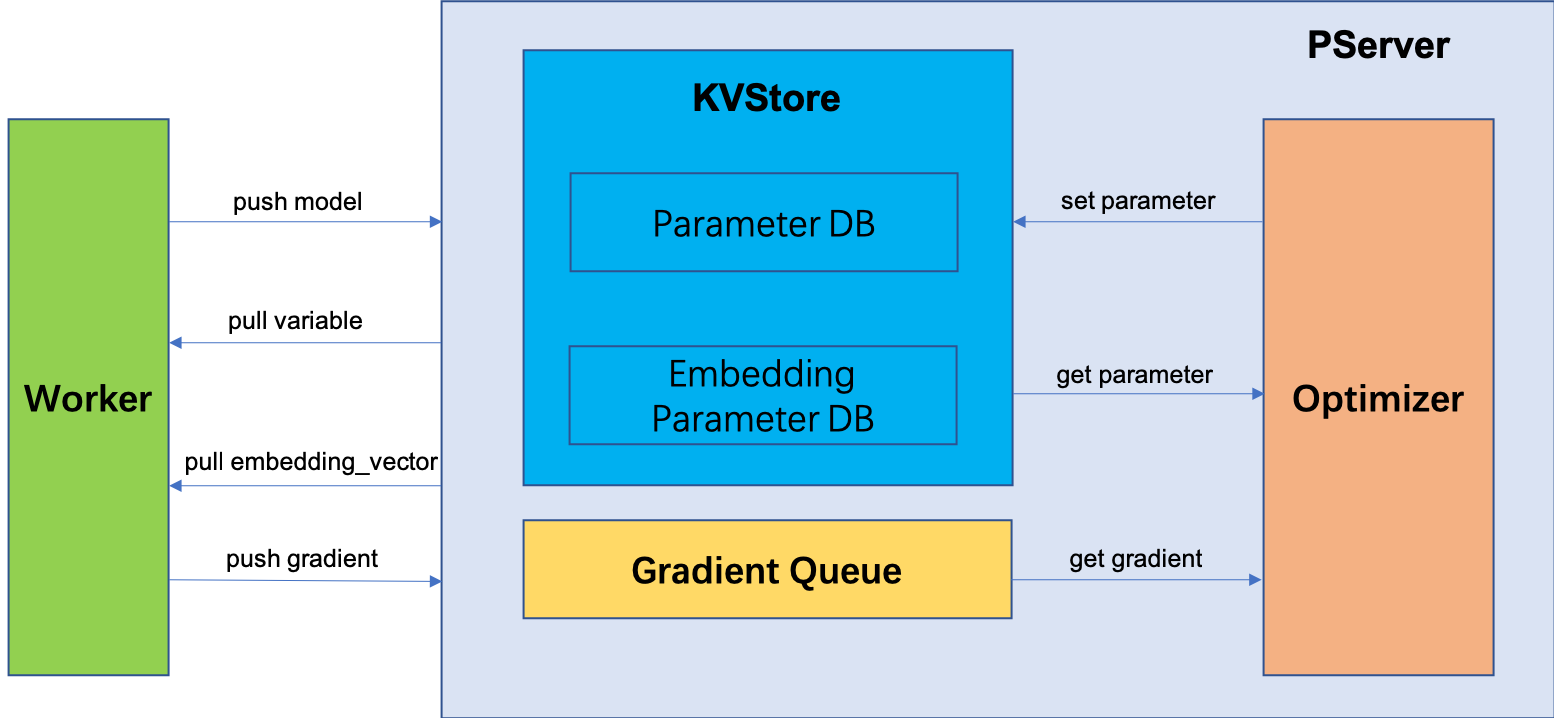
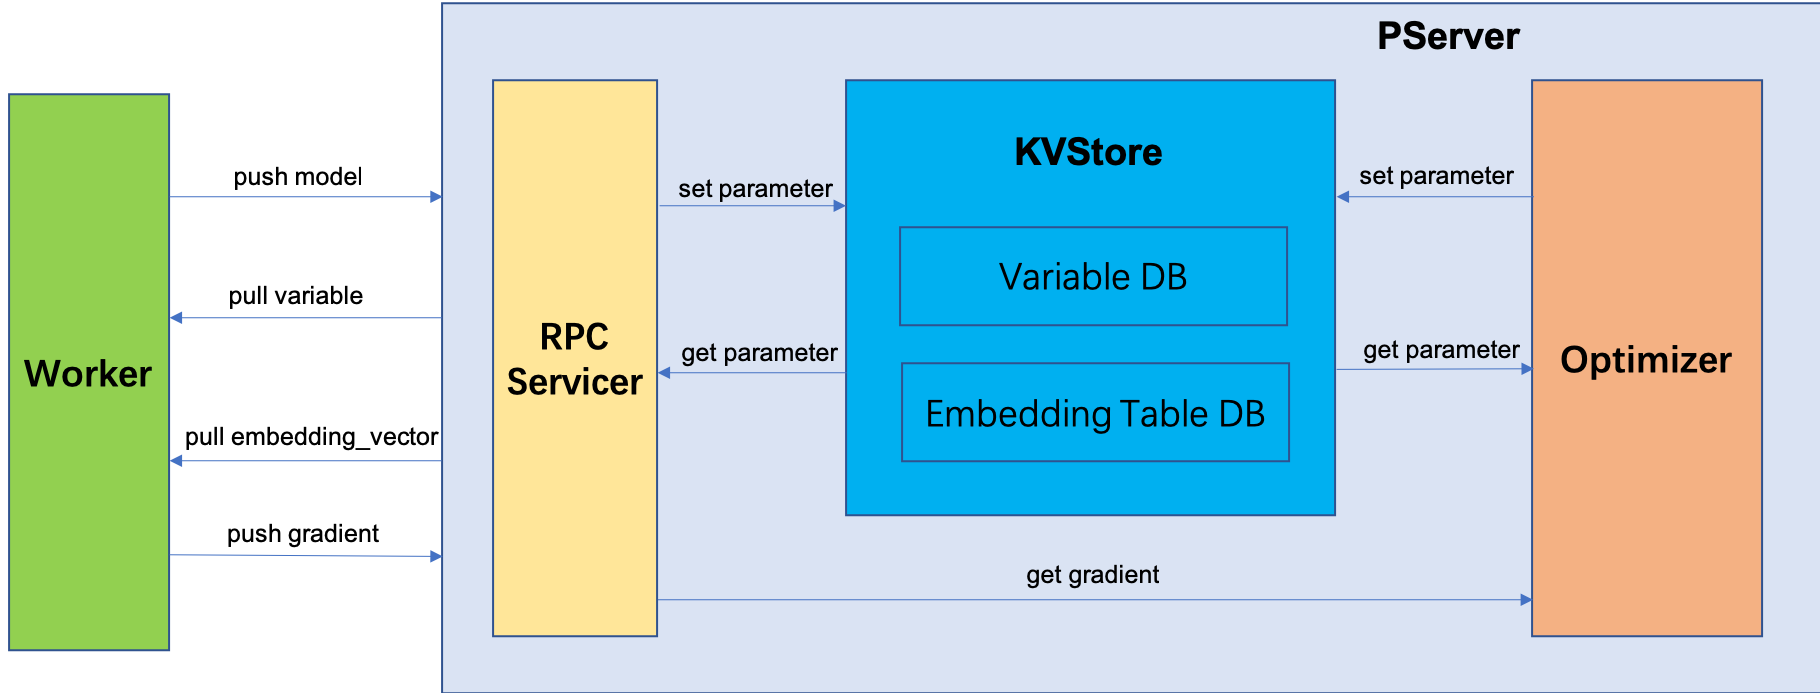
merge polish part

diff --git a/docs/designs/ps_design.md b/docs/designs/ps_design.md
@@ -20,7 +20,194 @@ In the following [PS](#ps) section, we will explain the distributed PS. In [PS F
 
 ## PS
 
-##PS Fault Tolerance
+To update a single parameter, optimizer needs to get the parameter, apply the gradient to the parameter, and then write the parameter back. It involves one time read and one time write. There will be huge accesses to parameters in a training job. Since model parameters are store at PS, it's better to make the optimization at the same place to reduce the cost of accessing parameters.
+
+Thus, we propose that PS has three basic components:
+
+| component| functionality |hardware |
+| :----  |:----  |:----  |
+|KVStore  | provides distributed storage of model parameters|memory|
+|Optimizer | applies gradients from workers to model parameters|CPU |
+|RPC servicer |servers workers to pull parameters and push gradients |network bandwidth |
+
+Each component will occupy a kind of hardware resource. The hardware resources of PS nodes, including memory/CPU/network bandwidth, are fully used.
+
+Following is the architecture diagram of PS:
+
+![pserver](../images/pserver.png)
+
+There is a KVStore instance in each PS node. The KVStore instances of all the PS nodes combine together and become a distributed KVStore, which could be expanded easily to support the large size model.
+
+Correspondingly, there are an optimizer instance and a RPC servicer instance in each PS node. The optimizer gets gradients for RPC servicer, parameters from KVStore, and then applies the gradients to parameters. At last, it updates parameters back to the KVStore.
+
+### KVStore
+
+The typical big parameter of a model could be an embedding table. There could be billions of feature ID in a recommendation system. The KVStore needs to support both embedding table parameter and non-embedding parameter.
+
+Since `tf.keras.optimizer` only accept `tf.Variable` as the parameter. To avoid uncessary memory copy, we save non-embedding parameter as a `tf.Variable` in variable DB directly.
+
+For the embedding table parameter, we introduce a customized data structure because we could not initialize the table before training. There are mainly two reasons:
+
+- Feature ID is usually calculated by the hash function. The training dataset is too large to get the range of the ID before training.
+- Sometimes, there comes a new feature ID in online training.
+
+
+Following is the definition of KVStore:
+
+```python
+class KVStore(object):
+    def __init__(self):
+        self.variable_db = {}
+        self.embedding_table_db = {}
+
+    def get_parameter(self, name):
+        pass
+
+    def set_parameter(self, name, value):
+        pass
+
+    def get_embedding_vector(self, name, indices):
+        pass
+
+    def set_embedding_vector(self, name, indices, value):
+        pass
+```
+
+Following is the definition of EmbeddingTable:
+
+```python
+class EmbeddingTable(object):
+    def __init__(self, name, dim, initializer):
+        self.name = name
+        self.dim = dim
+        self.initializer = initializer
+        self.vectors = {}
+
+    def get(self, indices):
+        res = []
+        for i in indices:
+            if i not in self.vectors:
+                value = init_value(self.initializer, self.dim)
+            else:
+                value = self.vectors[i]
+            res.append(value)
+        return res
+
+    def set(self, indices, value):
+        pass
+```
+
+The name of embedding table is the embedding layer name. EmbeddingTable uses a dictionary `vectors` to store `<id, embedding_vector>` pairs.
+
+Since embedding table is lazily initialized in PS, it also has `dim` and `initializer` fields. Inside the `get` interface of `EmbeddindTable`, if the id is not in the `vectors` dictionary, the corresponding value will be initialized and return back.
+
+Then, all the embedding tables are stored at the embedding table DB. The key is the usually the embedidng layer name, the value is the embedidng table parameter.
+
+### Optimizer
+
+#### embedding parameter and non-embedding parameter updating
+
+The optimizer of PS is responsible for applying gradients to parameters in KVStore. Non-embedding parameter in KVStore is stored as a `tf.Variable`, we could set a `tf.keras.optimizer` instance in the optimizer to update it.
+
+However, embedding table parameter is not a standard `tf.Variable`, we have to implement extra logic to handle it. The optimizer need to `get_embedding_vector` from the KVStore, and convert it to a standard `tf.Variable` on the fly.
+
+Besides, many `tf.keras.optimizer` subclasses, such as `Adam` and `Adagrad` allocate and manage additional variables associated with the variables to train.  These are called `Slots`. Non-embedding parameter slots are stored and managed by `tf.keras.optimizer`.
+
+Embedding table slots are stored at KVStore. It's also a embedding table data structure. For example, a embedding table parameter with name `embedding_layer0`, we will create a corresponding `embedding_layer0-momentum` EmbeddingTable object in `KVStore.embedding_table_db`.
+
+We also need to implement extra logic to handle emebdding table slots when doing optimization.
+
+#### sync-SGD and async-SGD
+
+We support sync-SGD and async-SGD both.
+
+In sync-SGD, optimizer needs to wait for a certain number of gradients, and then get the gradient after addition. We could implement a customized gradient queue structure to support such logic efficiently.
+
+There are two ways to support async-SGD:
+ 
+- Calling `apply_gradient` inside `push_gradient` gRPC service.
+- Putting gradients into a gradient queue, and optimizer gets gradients from the queue immediately to `apply_gradient`.
+
+In the first way, there may be several gRPC threads running in parallel. This will introduce race condition on parameter updating, some gradients may be overwrited.
+
+The second way ensure each gradient could be applied, and decoupling these two procedures, `push_gradient` of worker and `apply_gradient` of optimizer. But the second way introduces more staleness in updating model, and may influence the final training accuracy.
+
+We will choose the first way since it's more easier to implement.
+
+### RPC Service
+PS provides RPC service for workers. There are three important events that PS should interact with workers:
+
+* initialization of model parameters
+* pull model parameters
+* push gradients
+
+#### Initialization of model parameters
+After starting, PS does not contain any parameter. For model variables, ElasticDL should initialize them before training process. For embedding vectors, ElasticDL adopts lazy initialization, i.e. initialize them when they are needed in training process.
+
+In distributed learning scenario, model variables can be very large and each PS node only contains a subset of model variables. We can't assume that memory of single PS node can store all model variables. Thus, workers are responsible for model variables random initialization. After random initialization, workers sends model variables to the corresponding PS node.
+
+Here is the RPC call definition for pushing initialized model.
+
+```proto
+service PServer{
+    rpc push_model(Model) returns (google.protobuf.Empty);
+}
+```
+
+#### Pull model parameters
+Since ElasticDL saves parameters in PS, workers should pull parameters from PS in each iteration of training/evaluation process.
+
+For model variables, we can simply pull all model variables in one gRPC call before the forward-pass.
+
+For embedding vectors, we assume that the embedding vectors used in each iteration only account for a very small proportion of the embedding tables. Due to this assumption, ElasticDL should only pull embedding vectors that are used in this iteration. Only when the `call` function of embedding layer is called do we know which embedding vectors will be uses in this function. Thus, embedding layer is responsible for pull embedding vectors from PS. 
+
+Currently, ElasticDL has already implemented its embedding layer in `elasticdl.layers.embedding` module.
+
+Here are the RPC call definitions for pulling model variables and pulling embedding vectors.
+
+```proto
+service PServer{
+    rpc pull_variable(PullModelRequest) returns (PullModelResponse);
+    rpc pull_embedding_vector(Tensor) returns (Tensor);
+}
+```
+
+#### Push Gradients
+As introduced above, after backward-pass, workers push gradients to PS. PS is responsible for using these gradients to update model parameters.
+
+Here is the RPC call definition for pushing gradients.
+
+```proto
+service PServer{
+    rpc push_gradient(PushGradientRequest) returns (PushGradientResponse);
+}
+```
+
+### Checkpoint and Serving
+
+Master will send signal to PS to make checkpoint. Each PS node will save parameters in its current KVStore to a distributed file system.
+
+Since a PS node only has a subset of the whole model, we have to merge these submodels to get final model for serving.
+
+## Interactions among Master, PS and Worker
+The following events involve interactions among the master and PS:
+
+* The master starts PS.
+* PS reports submodel version to the master.
+* The master tells PS to save checkpoint.
+
+### The master starts PS
+When an ElasticDL task starts, `master.main` is responsible for starting PS as a Kubernetes service. Through Kubernetes service, we can fix domain name for every PS node.
+
+After starting PS, `master.main` starts the master servicer and workers, and tells them the domain names of all PS nodes. For PS with embedding replicas, every PS node also needs to know the domain name of its replicas.
+
+### PS reports submodel version to the master
+
+The master needs to know the model version to decide when to save checkpoint and when to evaluate model. PS regularly reports the version of the submodel it possessed to the master.
+
+
+## PS Fault Tolerance
+
 
 ### Relaunch of PS Node
 
